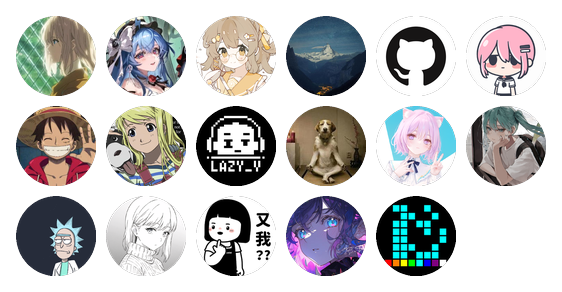
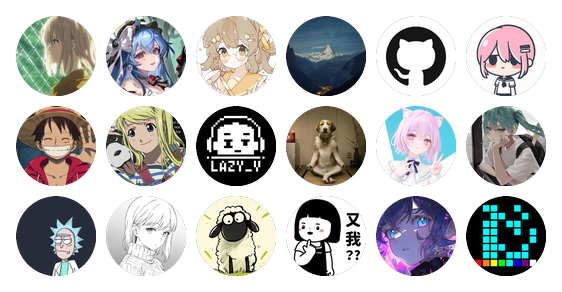
chore: update contributors

Changed region(s): [[0.3327, 0.6473, 0.9982, 0.9555]]

diff --git a/.thanks-contributors/contributors.html b/.thanks-contributors/contributors.html
@@ -159,7 +159,7 @@
     
     <div class='section'>
       <div class='grid'>
-        <a class='item' href='https://github.com/Sunrisepeak' target='_blank' title='Sunrisepeak'><img src='https://avatars.githubusercontent.com/u/38786181?v=4' alt='Sunrisepeak'><div class='name'>Sunrisepeak</div><div class='email'></div></a><a class='item' href='https://github.com/MoYingJi' target='_blank' title='MoYingJi'><img src='https://avatars.githubusercontent.com/u/64307394?v=4' alt='MoYingJi'><div class='name'>MoYingJi</div><div class='email'></div></a><a class='item' href='https://github.com/FrozenLemonTee' target='_blank' title='FrozenLemonTee'><img src='https://avatars.githubusercontent.com/u/64787592?v=4' alt='FrozenLemonTee'><div class='name'>FrozenLemonTee</div><div class='email'></div></a><a class='item' href='https://github.com/wil1jiang' target='_blank' title='wil1jiang'><img src='https://avatars.githubusercontent.com/u/48466892?v=4' alt='wil1jiang'><div class='name'>wil1jiang</div><div class='email'></div></a><a class='item' href='#' target='_blank' title='speak'><img src='https://github.githubassets.com/images/modules/logos_page/GitHub-Mark.png' alt='speak'><div class='name'>speak</div><div class='email'>speak@speakmbp.lan</div></a><a class='item' href='https://github.com/2412322029' target='_blank' title='2412322029'><img src='https://avatars.githubusercontent.com/u/74493337?v=4' alt='2412322029'><div class='name'>2412322029</div><div class='email'></div></a><a class='item' href='https://github.com/tiansongyu' target='_blank' title='tiansongyu'><img src='https://avatars.githubusercontent.com/u/22124581?v=4' alt='tiansongyu'><div class='name'>tiansongyu</div><div class='email'></div></a><a class='item' href='https://github.com/sky-littlestar' target='_blank' title='sky-littlestar'><img src='https://avatars.githubusercontent.com/u/59217691?v=4' alt='sky-littlestar'><div class='name'>sky-littlestar</div><div class='email'></div></a><a class='item' href='https://github.com/zzxzzk115' target='_blank' title='zzxzzk115'><img src='https://avatars.githubusercontent.com/u/33739170?v=4' alt='zzxzzk115'><div class='name'>zzxzzk115</div><div class='email'></div></a><a class='item' href='https://github.com/521xueweihan' target='_blank' title='521xueweihan'><img src='https://avatars.githubusercontent.com/u/8255800?v=4' alt='521xueweihan'><div class='name'>521xueweihan</div><div class='email'></div></a><a class='item' href='https://github.com/Ankali-Aylina' target='_blank' title='Ankali-Aylina'><img src='https://avatars.githubusercontent.com/u/109135335?v=4' alt='Ankali-Aylina'><div class='name'>Ankali-Aylina</div><div class='email'></div></a><a class='item' href='https://github.com/ExquisiteCore' target='_blank' title='ExquisiteCore'><img src='https://avatars.githubusercontent.com/u/59426890?v=4' alt='ExquisiteCore'><div class='name'>ExquisiteCore</div><div class='email'></div></a><a class='item' href='https://github.com/13eholder' target='_blank' title='13eholder'><img src='https://avatars.githubusercontent.com/u/109021191?v=4' alt='13eholder'><div class='name'>13eholder</div><div class='email'></div></a><a class='item' href='https://github.com/lost-42' target='_blank' title='lost-42'><img src='https://avatars.githubusercontent.com/u/202471602?v=4' alt='lost-42'><div class='name'>lost-42</div><div class='email'></div></a><a class='item' href='https://github.com/jwaiting' target='_blank' title='jwaiting'><img src='https://avatars.githubusercontent.com/u/39482149?v=4' alt='jwaiting'><div class='name'>jwaiting</div><div class='email'></div></a><a class='item' href='https://github.com/Mq-b' target='_blank' title='Mq-b'><img src='https://avatars.githubusercontent.com/u/97590219?v=4' alt='Mq-b'><div class='name'>Mq-b</div><div class='email'></div></a><a class='item' href='https://github.com/d2learn-org' target='_blank' title='d2learn-org'><img src='https://avatars.githubusercontent.com/u/248744407?v=4' alt='d2learn-org'><div class='name'>d2learn-org</div><div class='email'></div></a>
+        <a class='item' href='https://github.com/Sunrisepeak' target='_blank' title='Sunrisepeak'><img src='https://avatars.githubusercontent.com/u/38786181?v=4' alt='Sunrisepeak'><div class='name'>Sunrisepeak</div><div class='email'></div></a><a class='item' href='https://github.com/MoYingJi' target='_blank' title='MoYingJi'><img src='https://avatars.githubusercontent.com/u/64307394?v=4' alt='MoYingJi'><div class='name'>MoYingJi</div><div class='email'></div></a><a class='item' href='https://github.com/FrozenLemonTee' target='_blank' title='FrozenLemonTee'><img src='https://avatars.githubusercontent.com/u/64787592?v=4' alt='FrozenLemonTee'><div class='name'>FrozenLemonTee</div><div class='email'></div></a><a class='item' href='https://github.com/wil1jiang' target='_blank' title='wil1jiang'><img src='https://avatars.githubusercontent.com/u/48466892?v=4' alt='wil1jiang'><div class='name'>wil1jiang</div><div class='email'></div></a><a class='item' href='#' target='_blank' title='speak'><img src='https://github.githubassets.com/images/modules/logos_page/GitHub-Mark.png' alt='speak'><div class='name'>speak</div><div class='email'>speak@speakmbp.lan</div></a><a class='item' href='https://github.com/2412322029' target='_blank' title='2412322029'><img src='https://avatars.githubusercontent.com/u/74493337?v=4' alt='2412322029'><div class='name'>2412322029</div><div class='email'></div></a><a class='item' href='https://github.com/tiansongyu' target='_blank' title='tiansongyu'><img src='https://avatars.githubusercontent.com/u/22124581?v=4' alt='tiansongyu'><div class='name'>tiansongyu</div><div class='email'></div></a><a class='item' href='https://github.com/sky-littlestar' target='_blank' title='sky-littlestar'><img src='https://avatars.githubusercontent.com/u/59217691?v=4' alt='sky-littlestar'><div class='name'>sky-littlestar</div><div class='email'></div></a><a class='item' href='https://github.com/zzxzzk115' target='_blank' title='zzxzzk115'><img src='https://avatars.githubusercontent.com/u/33739170?v=4' alt='zzxzzk115'><div class='name'>zzxzzk115</div><div class='email'></div></a><a class='item' href='https://github.com/521xueweihan' target='_blank' title='521xueweihan'><img src='https://avatars.githubusercontent.com/u/8255800?v=4' alt='521xueweihan'><div class='name'>521xueweihan</div><div class='email'></div></a><a class='item' href='https://github.com/Ankali-Aylina' target='_blank' title='Ankali-Aylina'><img src='https://avatars.githubusercontent.com/u/109135335?v=4' alt='Ankali-Aylina'><div class='name'>Ankali-Aylina</div><div class='email'></div></a><a class='item' href='https://github.com/ExquisiteCore' target='_blank' title='ExquisiteCore'><img src='https://avatars.githubusercontent.com/u/59426890?v=4' alt='ExquisiteCore'><div class='name'>ExquisiteCore</div><div class='email'></div></a><a class='item' href='https://github.com/13eholder' target='_blank' title='13eholder'><img src='https://avatars.githubusercontent.com/u/109021191?v=4' alt='13eholder'><div class='name'>13eholder</div><div class='email'></div></a><a class='item' href='https://github.com/lost-42' target='_blank' title='lost-42'><img src='https://avatars.githubusercontent.com/u/202471602?v=4' alt='lost-42'><div class='name'>lost-42</div><div class='email'></div></a><a class='item' href='https://github.com/topshihun' target='_blank' title='topshihun'><img src='https://avatars.githubusercontent.com/u/89700178?v=4' alt='topshihun'><div class='name'>topshihun</div><div class='email'></div></a><a class='item' href='https://github.com/jwaiting' target='_blank' title='jwaiting'><img src='https://avatars.githubusercontent.com/u/39482149?v=4' alt='jwaiting'><div class='name'>jwaiting</div><div class='email'></div></a><a class='item' href='https://github.com/Mq-b' target='_blank' title='Mq-b'><img src='https://avatars.githubusercontent.com/u/97590219?v=4' alt='Mq-b'><div class='name'>Mq-b</div><div class='email'></div></a><a class='item' href='https://github.com/d2learn-org' target='_blank' title='d2learn-org'><img src='https://avatars.githubusercontent.com/u/248744407?v=4' alt='d2learn-org'><div class='name'>d2learn-org</div><div class='email'></div></a>
       </div>
     </div>
 

diff --git a/README.md b/README.md
@@ -160,12 +160,21 @@
         </a>
     </td>
     <td align="center">
+        <a href="https://github.com/topshihun">
+            <img src="https://avatars.githubusercontent.com/u/89700178?v=4" width="50;" alt="topshihun"/>
+            <br />
+            <sub><b>topshihun</b></sub>
+        </a>
+    </td>
+    <td align="center">
         <a href="https://github.com/jwaiting">
             <img src="https://avatars.githubusercontent.com/u/39482149?v=4" width="50;" alt="jwaiting"/>
             <br />
             <sub><b>jwaiting</b></sub>
         </a>
     </td>
+</tr>
+<tr>
     <td align="center">
         <a href="https://github.com/Mq-b">
             <img src="https://avatars.githubusercontent.com/u/97590219?v=4" width="50;" alt="Mq-b"/>
@@ -173,8 +182,6 @@
             <sub><b>Mq-b</b></sub>
         </a>
     </td>
-</tr>
-<tr>
     <td align="center">
         <a href="https://github.com/d2learn-org">
             <img src="https://avatars.githubusercontent.com/u/248744407?v=4" width="50;" alt="d2learn-org"/>
@@ -182,7 +189,6 @@
             <sub><b>d2learn-org</b></sub>
         </a>
     </td>
-    <td></td>
     <td></td>
     <td></td>
     <td></td>

diff --git a/.thanks-contributors/contributors.md b/.thanks-contributors/contributors.md
@@ -103,6 +103,13 @@
         </a>
     </td>
     <td align="center">
+        <a href="https://github.com/topshihun">
+            <img src="https://avatars.githubusercontent.com/u/89700178?v=4" width="50;" alt="topshihun"/>
+            <br />
+            <sub><b>topshihun</b></sub>
+        </a>
+    </td>
+    <td align="center">
         <a href="https://github.com/jwaiting">
             <img src="https://avatars.githubusercontent.com/u/39482149?v=4" width="50;" alt="jwaiting"/>
             <br />
@@ -123,7 +130,6 @@
             <sub><b>d2learn-org</b></sub>
         </a>
     </td>
-    <td></td>
     <td></td>
     <td></td>
 </tr>
